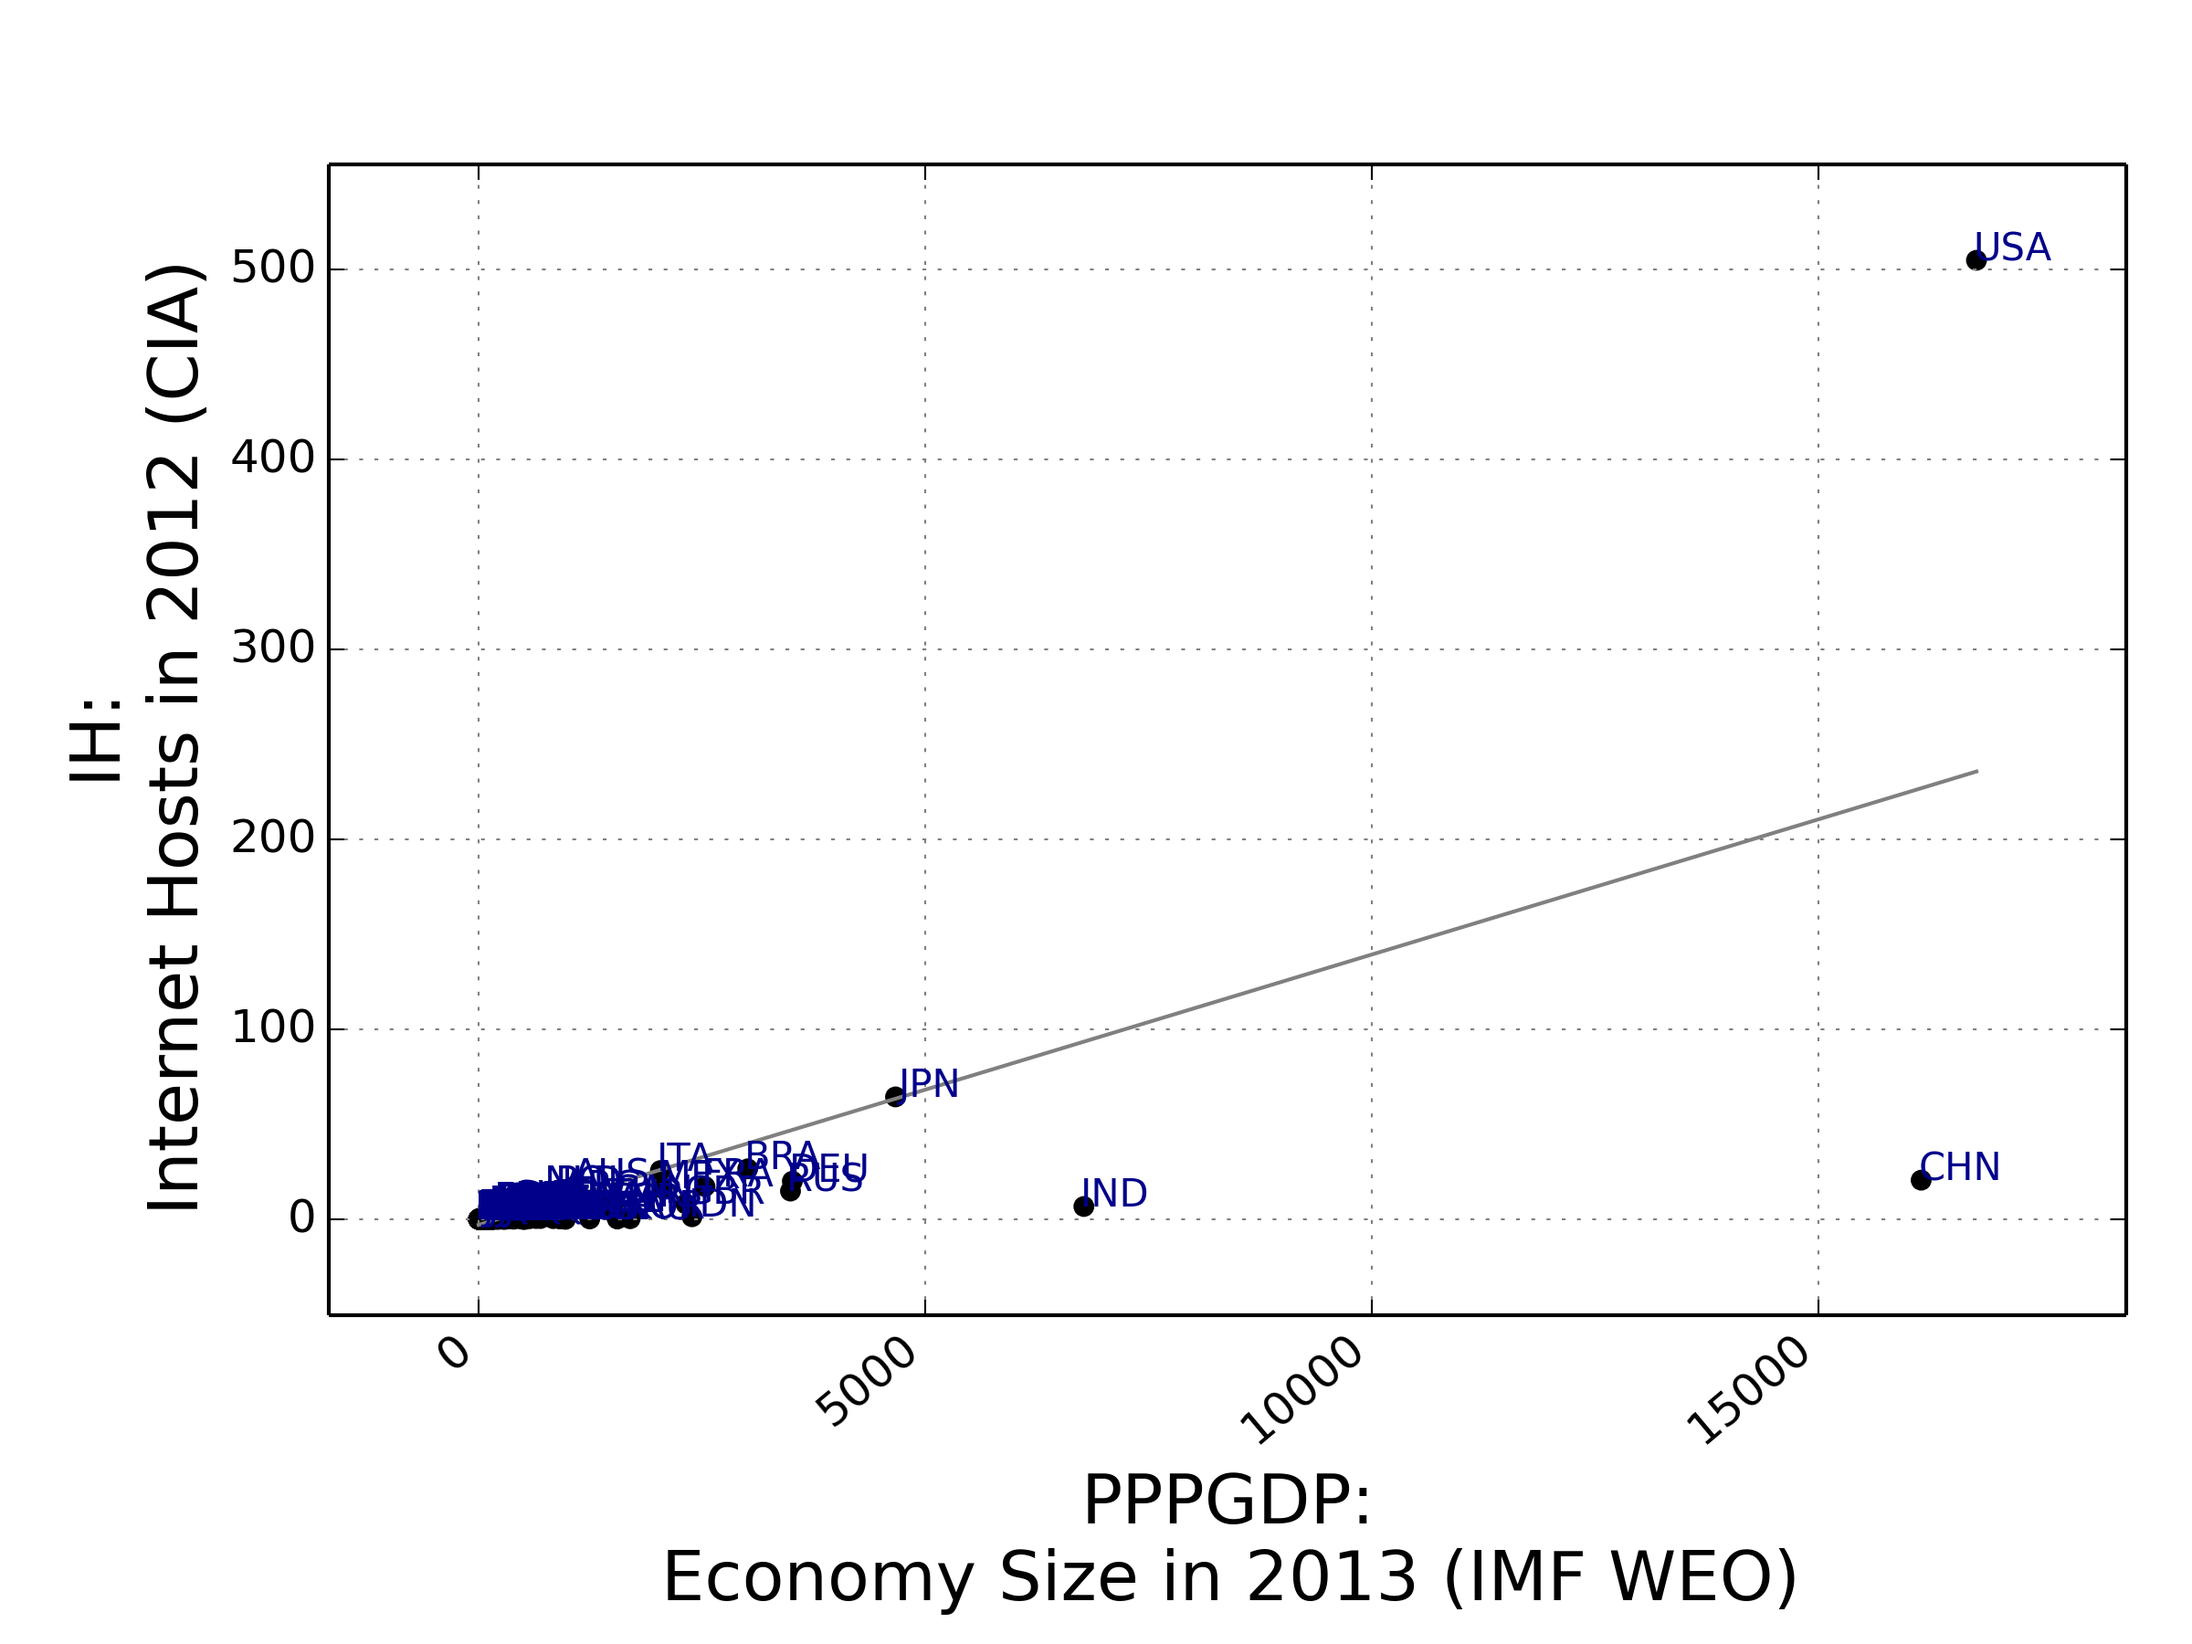
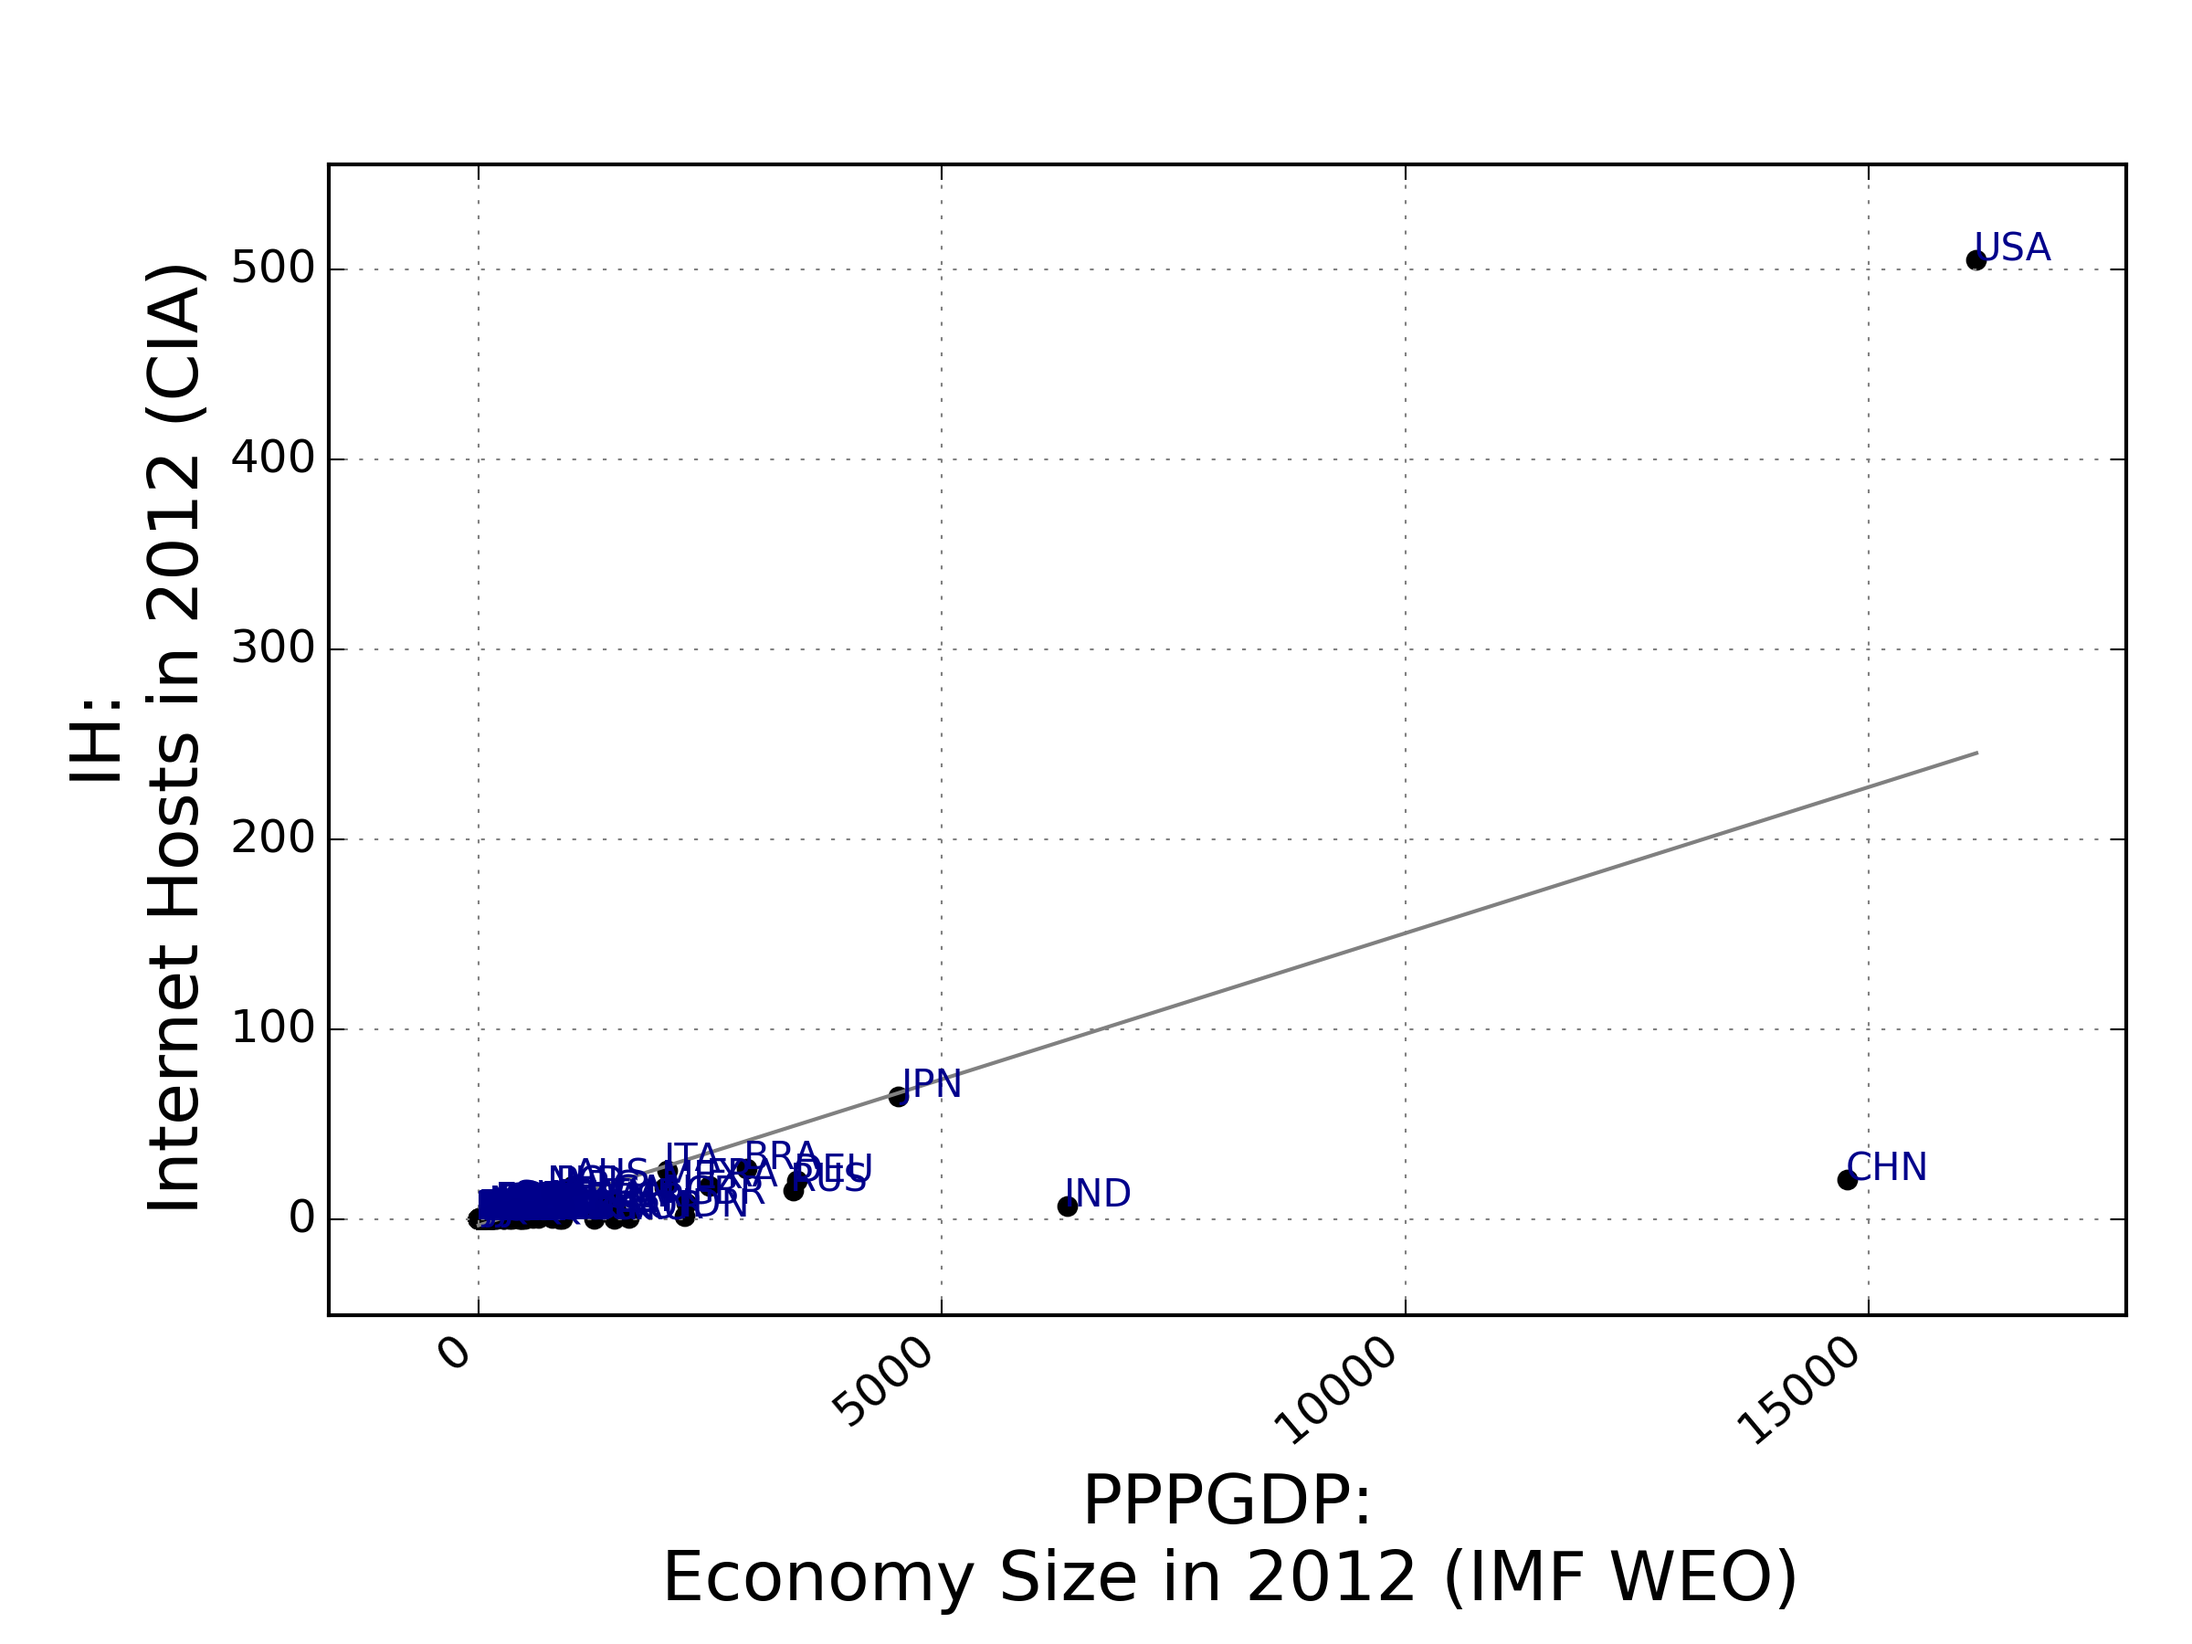
Some major revisions
(1) Rename IP-> IPop (Internet Population)
(2) distinguish panel (time series) and sizec (picked year size)
(3) panel support

diff --git a/pyCountrySize/32_construct_name_code_database.py b/pyCountrySize/32_construct_name_code_database.py
@@ -1,0 +1,36 @@
+# -*- coding: utf-8 -*-
+#歧視無邊，回頭是岸。鍵起鍵落，情真情幻。
+
+import ConfigParser
+Config = ConfigParser.ConfigParser()
+Config.read("config.ini")
+dir_inprocess =  Config.get("Directory",'inprocess')
+fn_suffix = Config.get("Filename",'suffix')
+
+import pandas as pd
+import os.path, glob
+ldf={}
+for datasource_sn in range(1,5):
+    fn_input=Config.get("datasource{0}".format(datasource_sn),'filename')
+    subject_picked=Config.get("datasource{0}".format(datasource_sn),'subject_picked')
+    year_picked=Config.get("datasource{0}".format(datasource_sn),'year_picked')
+    print datasource_sn, subject_picked, year_picked, fn_input
+    ldf[datasource_sn] = pd.read_pickle(os.path.join(dir_inprocess, os.path.splitext(os.path.basename(fn_input))[0] + "." + fn_suffix))
+##1 LP,PPPGDP 2013 WEOOct2014all.xls
+##2 IPop 2013 Individuals_Internet_2000-2013.xls
+##3 IH 2012 rawdata_2184.txt
+##4 IPv4 2015 CIPB - Allocation of IP addresses by Country.html
+    
+dict_eq_IMF=ldf[1].reset_index()[['ISO','Country']].drop_duplicates().set_index(['ISO'])['Country']
+dict_eq_ITU=ldf[2].reset_index()[['ISO','ISO2']].drop_duplicates().set_index(['ISO'])['ISO2']
+dict_eq_CIA=ldf[3].reset_index()[['ISO','ISO2']].drop_duplicates().set_index(['ISO'])['ISO2']
+dict_eq_CIPB=ldf[4].reset_index()[['ISO','Country_CIPB']].drop_duplicates().set_index(['ISO'])['Country_CIPB']
+
+
+df=pd.DataFrame(dict_eq_CIA)
+df['ISO2ITU']=[dict_eq_ITU.get(x, None) for x in df.index]
+df['name_IMF']=[dict_eq_IMF.get(x, None) for x in df.index]
+
+dir_db = Config.get("Directory",'database')
+fn_db = Config.get("output",'filename_mapping')
+df.to_pickle(os.path.join(dir_db, fn_db))

diff --git a/pyCountrySize/sizedb/__init__.py b/pyCountrySize/sizedb/__init__.py
@@ -5,19 +5,21 @@ from __future__ import (absolute_import, division, print_function,
 import pandas as pd
 import os
 
-__all__ = ["LP","PPPGDP","IPop","IH","IPv4","sizec", "meta", "description"]
+__all__ = ["LP","PPPGDP","IPop","IH","IPv4","sizec","panel", "meta", "description", "mapping"]
 __all__ = [str(u) for u in __all__]
 _ROOT = os.path.abspath(os.path.dirname(__file__))
 
 
 from os.path import basename, join, splitext
-sizec=pd.read_pickle(os.path.join(_ROOT, "size.pkl"))
+panel=pd.read_pickle(os.path.join(_ROOT, "size.pkl"))
+sizec=panel.loc[["IPop","LP","PPPGDP"],:,2013].join(panel.loc[["IH"],:,2012]).join(panel.loc[["IPv4"],:,2015])
+mapping=pd.read_pickle(os.path.join(_ROOT, "mapping.pkl")) #mapping['ISO2']['TWN']
 
-LP=sizec['LP'][2013]
-PPPGDP=sizec['PPPGDP'][2013]
-IPop=sizec['IPop'][2013]
-IH=sizec['IH'][2012]
-IPv4=sizec['IPv4'][2015]
+LP=sizec['LP']#or panel['LP'][2013] or  panel.loc['LP',:,2013]
+PPPGDP=sizec['PPPGDP']#or panel['PPPGDP'][2013]
+IPop=sizec['IPop']#or panel['IPop'][2013]
+IH=sizec['IH']#or panel['IH'][2012]
+IPv4=sizec['IPv4']#or panel['IPv4'][2015]
 
 meta={'LP': "Population in 2013 (IMF WEO)",\
       'PPPGDP': "Economy Size in 2013 (IMF WEO)",\
@@ -30,3 +32,5 @@ description={'LP': "Population in 2013 (in millions) from IMF World Economic Out
       'IPop': "Internet Population in 2013 (in millions) derived from ITU 2014 report and IMF World Economic Outlook (WEO) database, October 2014",\
       'IH': "Internet Hosts in 2012 (in millions) from CIA the World Factbook",\
       'IPv4': "Internet Addresses in 2015 (in millions) from CIPB", }
+
+

diff --git a/pyCountrySize/demograph_IH_IPop.py b/pyCountrySize/demograph_IH_IPop.py
@@ -27,14 +27,16 @@ mpl.rcParams["figure.subplot.right"] = 0.97
 mpl.rcParams["figure.subplot.bottom"] = 0.20
 mpl.rcParams["figure.figsize"] = [8, 6]
 
-(x_picked, y_picked)=("PPPGDP", "IP")
+(x_picked, y_picked)=("IPop", "IH")
 
-p_d = ggplot(aes(x=x_picked, y=y_picked, label=pyCountrySize.sizec.index.values), data=pyCountrySize.sizec)
+dslice=pyCountrySize.sizec.loc[['IH','IPop'],:,2012].dropna()
+
+p_d = ggplot(aes(x=x_picked, y=y_picked, label=dslice.index.values), data=dslice)
 
 p=p_d+geom_point()+\
            geom_text(aes(hjust = 0, vjust = 0, size=10, color='darkblue'))+\
            geom_smooth(aes(x=x_picked, y=y_picked), method='lm', se=False, color='grey')+\
-           labs(x = ":\n".join([x_picked, pyCountrySize.meta[x_picked]]), y = ":\n".join([y_picked, pyCountrySize.meta[y_picked]])) +\
+           labs(x = ":\n".join([x_picked, pyCountrySize.meta[x_picked].replace("2013","2012")]), y = ":\n".join([y_picked, pyCountrySize.meta[y_picked]])) +\
            theme_matplotlib()+ theme(axis_text_x  = element_text(angle = 40, hjust = 1))
 
 #print p

diff --git a/pyCountrySize/demograph_IH_PPPGDP.py b/pyCountrySize/demograph_IH_PPPGDP.py
@@ -29,12 +29,14 @@ mpl.rcParams["figure.figsize"] = [8, 6]
 
 (x_picked, y_picked)=("PPPGDP", "IH")
 
-p_d = ggplot(aes(x=x_picked, y=y_picked, label=pyCountrySize.sizec.index.values), data=pyCountrySize.sizec)
+dslice=pyCountrySize.sizec.loc[['IH','PPPGDP'],:,2012].dropna()
+
+p_d = ggplot(aes(x=x_picked, y=y_picked, label=dslice.index.values), data=dslice)
 
 p=p_d+geom_point()+\
            geom_text(aes(hjust = 0, vjust = 0, size=10, color='darkblue'))+\
            geom_smooth(aes(x=x_picked, y=y_picked), method='lm', se=False, color='grey')+\
-           labs(x = ":\n".join([x_picked, pyCountrySize.meta[x_picked]]), y = ":\n".join([y_picked, pyCountrySize.meta[y_picked]])) +\
+           labs(x = ":\n".join([x_picked, pyCountrySize.meta[x_picked].replace("2013","2012")]), y = ":\n".join([y_picked, pyCountrySize.meta[y_picked]])) +\
            theme_matplotlib()+ theme(axis_text_x  = element_text(angle = 40, hjust = 1))
 
 #print p

diff --git a/pyCountrySize/demograph_IPop_PPPGDP.py b/pyCountrySize/demograph_IPop_PPPGDP.py
@@ -27,9 +27,11 @@ mpl.rcParams["figure.subplot.right"] = 0.97
 mpl.rcParams["figure.subplot.bottom"] = 0.20
 mpl.rcParams["figure.figsize"] = [8, 6]
 
-(x_picked, y_picked)=("LP", "IP")
+(x_picked, y_picked)=("PPPGDP", "IPop")
 
-p_d = ggplot(aes(x=x_picked, y=y_picked, label=pyCountrySize.sizec.index.values), data=pyCountrySize.sizec)
+dslice=pyCountrySize.sizec.loc[['IPop','PPPGDP'],:,2013].dropna()
+
+p_d = ggplot(aes(x=x_picked, y=y_picked, label=dslice.index.values), data=dslice)
 
 p=p_d+geom_point()+\
            geom_text(aes(hjust = 0, vjust = 0, size=10, color='darkblue'))+\

diff --git a/pyCountrySize/demograph_IPop_LP.py b/pyCountrySize/demograph_IPop_LP.py
@@ -27,9 +27,11 @@ mpl.rcParams["figure.subplot.right"] = 0.97
 mpl.rcParams["figure.subplot.bottom"] = 0.20
 mpl.rcParams["figure.figsize"] = [8, 6]
 
-(x_picked, y_picked)=("LP", "IH")
+(x_picked, y_picked)=("LP", "IPop")
 
-p_d = ggplot(aes(x=x_picked, y=y_picked, label=pyCountrySize.sizec.index.values), data=pyCountrySize.sizec)
+dslice=pyCountrySize.sizec.loc[['LP','IPop'],:,2013].dropna()
+
+p_d = ggplot(aes(x=x_picked, y=y_picked, label=dslice.index.values), data=dslice)
 
 p=p_d+geom_point()+\
            geom_text(aes(hjust = 0, vjust = 0, size=10, color='darkblue'))+\

diff --git a/pyCountrySize/demograph_PPPGDP_LP.py b/pyCountrySize/demograph_PPPGDP_LP.py
@@ -29,7 +29,9 @@ mpl.rcParams["figure.figsize"] = [8, 6]
 
 (x_picked, y_picked)=("LP", "PPPGDP")
 
-p_d = ggplot(aes(x=x_picked, y=y_picked, label=pyCountrySize.sizec.index.values), data=pyCountrySize.sizec)
+dslice=pyCountrySize.sizec.loc[['LP','PPPGDP'],:,2013].dropna()
+
+p_d = ggplot(aes(x=x_picked, y=y_picked, label=dslice.index.values), data=dslice)
 
 p=p_d+geom_point()+\
            geom_text(aes(hjust = 0, vjust = 0, size=10, color='darkblue'))+\

diff --git a/pyCountrySize/__init__.py b/pyCountrySize/__init__.py
@@ -6,7 +6,7 @@ from __future__ import (absolute_import, division, print_function,
 # This is the only place the version is specified and 
 # used in both setup.py and docs/conf.py to set the 
 # version of ggplot.
-__version__ = '0.0.3'
+__version__ = '0.0.4'
 
-from .sizedb import (LP, PPPGDP, IPop, IH, IPv4, sizec, meta, description)
+from .sizedb import (LP, PPPGDP, IPop, IH, IPv4, sizec, panel, meta, description, mapping)
 
